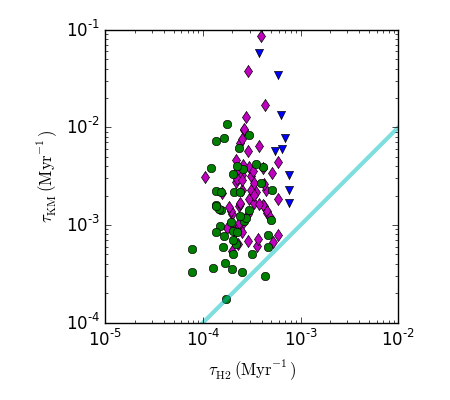
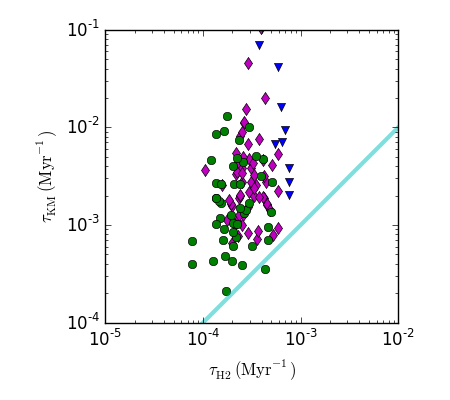
Add in the 1.3 scale fac

diff --git a/star_formation.py b/star_formation.py
@@ -115,7 +115,7 @@ volume = 4*np.pi/3*(mytable['RADRMS_EXTRAP_DECONV'].data*u.pc)**3
 rho = mytable['MASS_EXTRAP'].data*u.Msun/volume
 tff = ((3*np.pi/(32*con.G*rho))**0.5).to(u.Myr)
 virial_parameter = mytable['VIRMASS_EXTRAP_DECONV']/mytable['MASS_EXTRAP']
-SFE = 0.014*(mach/100)**(-0.32)/tff*(virial_parameter)**(-0.68)
+SFE = 0.014*(mach/100)**(-0.32)/tff*(virial_parameter/1.3)**(-0.68)
 plt.clf()
 figure = plt.figure(figsize=(4.5,4))
 ax = figure.add_subplot(111)
